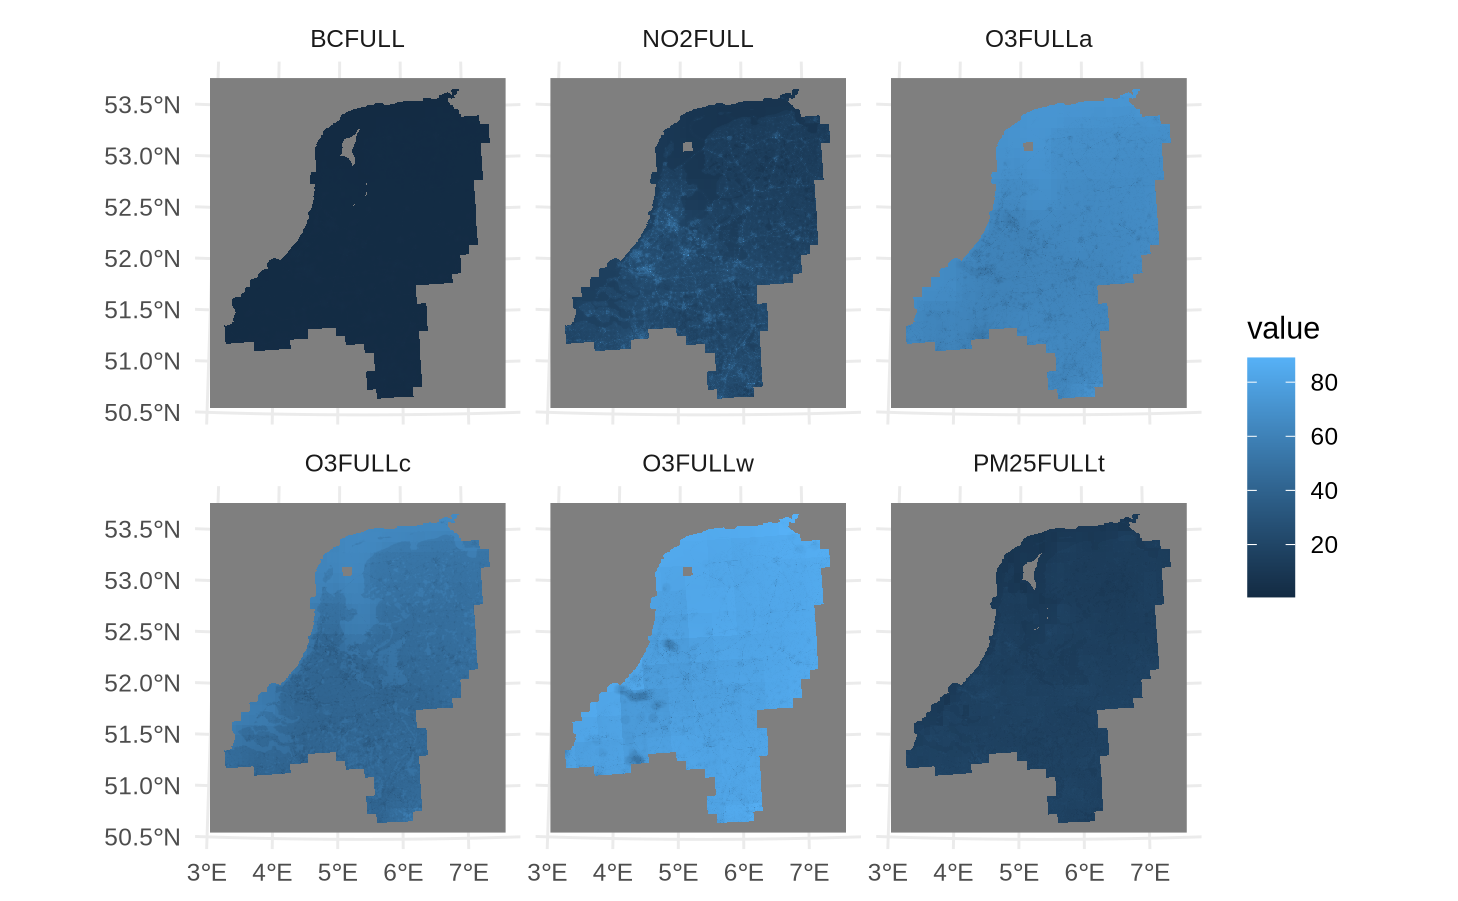
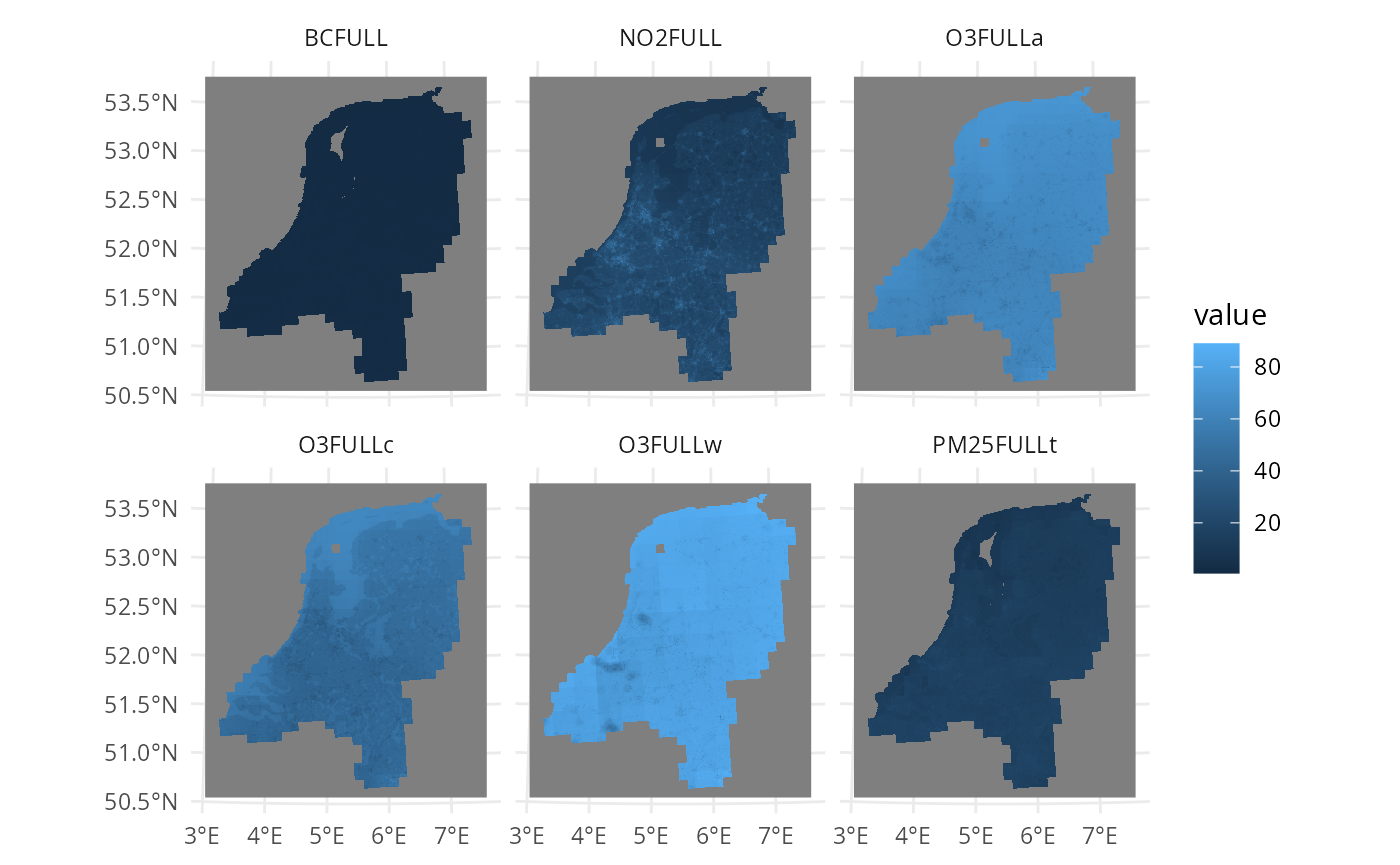
Built site for postcodElapse@0.0.0.9770:

diff --git a/articles/postcodElapse.html b/articles/postcodElapse.html
@@ -216,7 +216,7 @@ below.</p>
 <span>  <span class="fu"><a href="https://dieghernan.github.io/tidyterra/reference/geom_spatraster.html" class="external-link">geom_spatraster</a></span><span class="op">(</span>data <span class="op">=</span> <span class="va">elapse</span><span class="op">)</span> <span class="op">+</span></span>
 <span>  <span class="fu"><a href="https://ggplot2.tidyverse.org/reference/facet_wrap.html" class="external-link">facet_wrap</a></span><span class="op">(</span><span class="op">~</span> <span class="va">lyr</span><span class="op">)</span></span>
 <span><span class="co">#&gt; <span style="color: #0000BB;">&lt;SpatRaster&gt;</span> resampled to <span style="color: #0000BB;">500490</span> cells.</span></span></code></pre></div>
-<p><img src="postcodElapse_files/figure-html/plotting%20ELAPSE-1.png" class="r-plt" alt="" width="729.166666666667"></p>
+<p><img src="postcodElapse_files/figure-html/plotting%20ELAPSE-1.png" class="r-plt" alt="" width="700"></p>
 </div>
 </div>
   </main><aside class="col-md-3"><nav id="toc" aria-label="Table of contents"><h2>On this page</h2>
